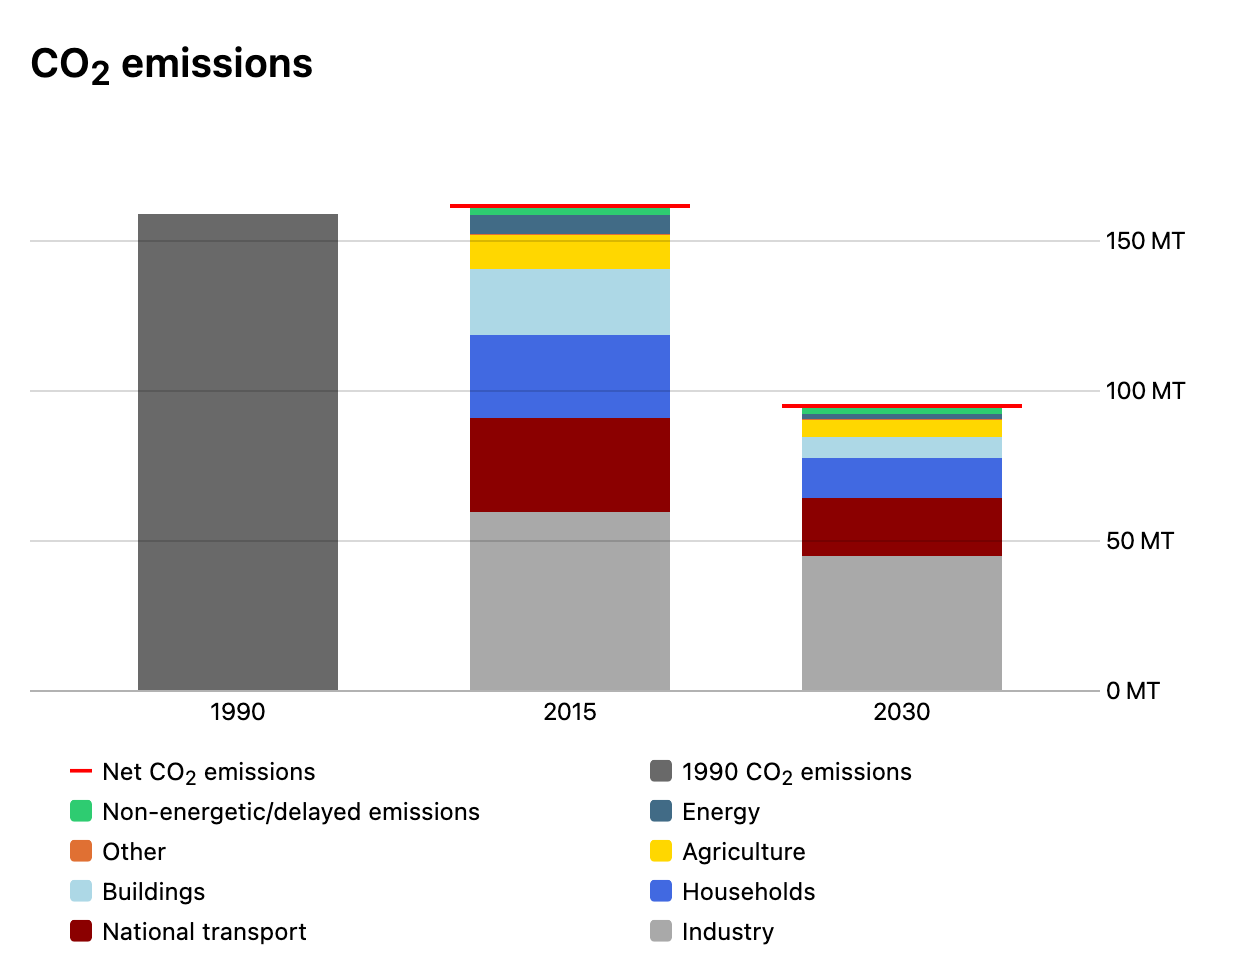
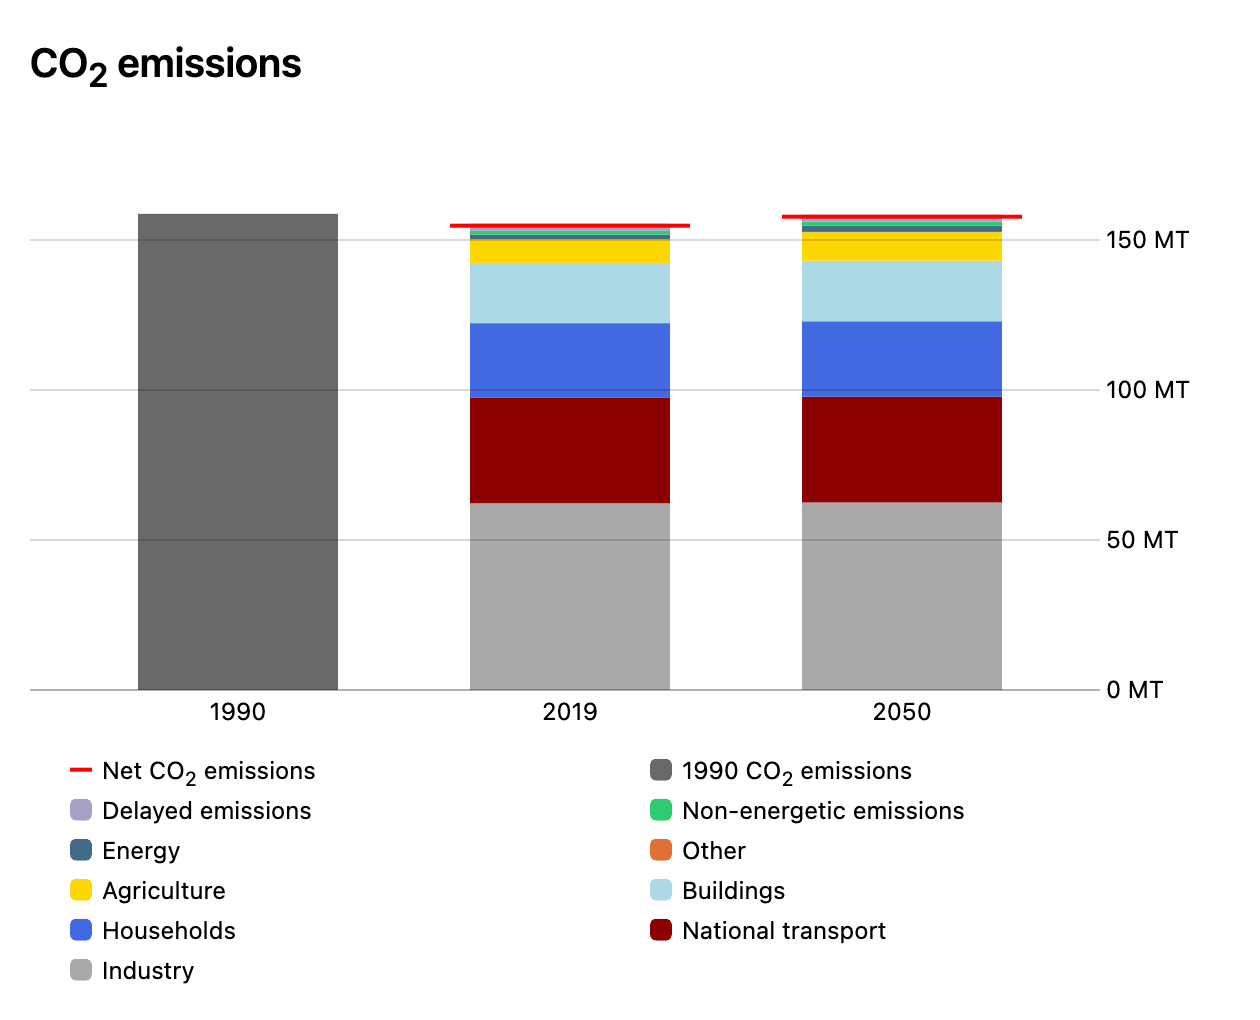
Adding more detailed information concerning non-energetic emissions

diff --git a/docs/main/co2-overview-per-sector.md b/docs/main/co2-overview-per-sector.md
@@ -6,7 +6,10 @@ sidebar_label: Emissions per sector chart
 This article explains the following chart:
 ![](/img/docs/co2-emissions-chart.png)
 
-This chart does not include other greenhouse gas emissions apart from CO<sub>2</sub>. Also, non-energetic CO<sub>2</sub> emissions are not included, with the exception of the Fertilizer industry and hydrogen feedstock use.
+This chart does not include other greenhouse gas emissions apart from CO<sub>2</sub>. 
+The non-energetic CO<sub>2</sub> emissions that are included are:
+- The usage of network gas for the production of fertilizers.
+- The CO<sub>2</sub> that is emitted for the production of non-energetic hydrogen and ammonia (which in turn can be used in the fertilizer sector).
 
 In the ETM emissions from different sectors are taken into account to calculate the total emissions in your scenario. Every sector has a different scope when it comes to which emissions are taken into account and which are not. This page explains how this scope is defined in the ETM per sector which you can use to gain a better understanding of the total emissions displayed on the dashboard.
 
@@ -25,4 +28,5 @@ The following is included per category:
 | Other | Includes all energetic CO<sub>2</sub> related to final energy demand in the other demand sector.
 | Industry | Includes all energetic CO<sub>2</sub> related to final energy demand in the industry sector, including emissions related to the production of electricity, hydrogen and steam. Feedstock emissions are excluded. Captured emissions (using [carbon capture technologies](co2-ccus.md)) in the industry sector are subtracted.
 | Energy | Emissions related to the production of power, hydrogen, heat and steam are *__not__* included here, as these are assigned to the sectors in which these carriers are used. This category does include emissions related to: <ul><li>own energy use of the power sector</li><li>unused heat for heat networks</li><li>coal gas consumption of cokes ovens</li><li>the production of synthetic kerosene and methanol</li><li>energy use of Direct Air Capture. The CO<sub>2</sub> captured from the ambient air is subtracted from this category</li><li>energy use of CO<sub>2</sub> storage</li></ul>
-| Non-energetic / delayed emissions | Includes emissions related to: <ul><li>feedstock use in the fertilizer industry</li><li>(the production of) non-energetic final demand of hydrogen in industry</li><li>CO<sub>2</sub> utilised in the 'other' category of the [carbon utilisation section](https://pro.energytransitionmodel.com/scenario/supply/ccus/utilisation-and-storage-of-co2)</li></ul>
+| Non-energetic emissions | Includes emissions related to: <ul><li>feedstock use in the fertilizer industry</li><li>(the production of) non-energetic final demand of hydrogen and ammonia.</li></ul>
+| Delayed emissions | Includes emissions related to:<ul><li>CO<sub>2</sub>. utilised in the 'other' category of the [carbon utilisation section](https://pro.energytransitionmodel.com/scenario/emissions/ccus/utilisation-and-storage-of-co2)</li></ul>

diff --git a/docs/main/co2-main-principles.md b/docs/main/co2-main-principles.md
@@ -7,7 +7,7 @@ In the ETM the total greenhouse gas emissions for both the present and future in
 ## Emission categories
 The ETM make a distinction between four 'types' of greenhouse gas emissions:
 1. **Energetic CO<sub>2</sub> emissions**. These emissions are calculated by the ETM based on the energy use in your scenario. In other words, they are the result of the choices made in the [Demand](https://pro.energytransitionmodel.com/scenario/demand/households/population-and-housing-stock) and [Supply](https://pro.energytransitionmodel.com/scenario/supply/electricity/coal-plants) sections of the model.
-2. **Non-energetic CO<sub>2</sub> emissions**. These emissions are given as an input to the ETM. For the future year, you can make assumptions about the growth or decline of these emissions in the [Emissions](https://pro.energytransitionmodel.com/scenario/emissions/other_emissions/overview) section of the ETM. There are two exceptions to this category: non-energetic CO<sub>2</sub> in the [Fertilizer industry](https://pro.energytransitionmodel.com/scenario/demand/industry/fertilizers) and from hydrogen feedstock use (e.g. in the [Chemicals](https://pro.energytransitionmodel.com/scenario/demand/industry/chemicals) industry) are calculated dynamically by the ETM based on energy demand and supply.
+2. **Non-energetic CO<sub>2</sub> emissions**. These emissions are given as an input to the ETM. For the future year, you can make assumptions about the growth or decline of these emissions in the [Emissions](https://pro.energytransitionmodel.com/scenario/emissions/other_emissions/overview) section of the ETM. There are two exceptions to this category: non-energetic CO<sub>2</sub> in the [Fertilizer industry](https://pro.energytransitionmodel.com/scenario/demand/industry/fertilizers) and from hydrogen and ammonia feedstock use (e.g. in the [Chemicals](https://pro.energytransitionmodel.com/scenario/demand/industry/chemicals) industry) are calculated dynamically by the ETM based on energy demand and supply.
 3. **Energetic other greenhouse gas emissions**. For example methane and nitrous oxide. These emissions are given as an input to the ETM. For the future year, you can make assumptions about the growth or decline of these emissions in the [Emissions](https://pro.energytransitionmodel.com/scenario/emissions/other_emissions/overview) section of the ETM. This means that these emissions are **not** adjusted automatically by the ETM if changes are made to energy supply and demand.
 4. **Non-energetic other greenhouse gas emissions**. For example methane and nitrous oxide. These emissions are given as an input to the ETM. For the future year, you can make assumptions about the growth or decline of these emissions in the [Emissions](https://pro.energytransitionmodel.com/scenario/emissions/other_emissions/overview) section of the ETM.
 

diff --git a/docs/main/co2-1990-emissions.md b/docs/main/co2-1990-emissions.md
@@ -9,12 +9,16 @@ _Checkout: The 1990 emissions of other green house gases is currently not includ
 ## Country-level data
 For all countries in the ETM, the 1990 emissions number is based on data from the [European Environmental Agency](https://www.eea.europa.eu/data-and-maps/data/national-emissions-reported-to-the-unfccc-and-to-the-eu-greenhouse-gas-monitoring-mechanism-16). The following categories are included:
 
-| Emissions Category | Code |
+| Emissions Category | Code | Type |
 |----------------|-----------------|
-| Fuel Combustion by sector | 1.AA |
-| Ammonia Production | 2.B.1 |
-| Metal Industry | 2.C |
-| Waste Incineration | 5.C.1 |
+| Fuel Combustion by sector | 1.AA | Energetic |
+| Ammonia Production in Fertilizer sector | 2.B.1 | Non-Energetic |
+| Metal Industry | 2.C | Energetic |
+| Waste Incineration | 5.C.1 | Energetic |
+
+For non-energetic emissins, the ETM only takes the non-energetic emissions during the production of ammonia in the fertilizer sector into account. 
+This is because these emissions can be calculated using valid generic assumptions. 
+In other sectors, non-energetic emissions can vary site-specific, therefore the ETM does not take these into account.
 
 Other emissions, such as other feedstock and fugitive emissions are not included in the 1990 number as these emissions are out of scope of the ETM.
 
